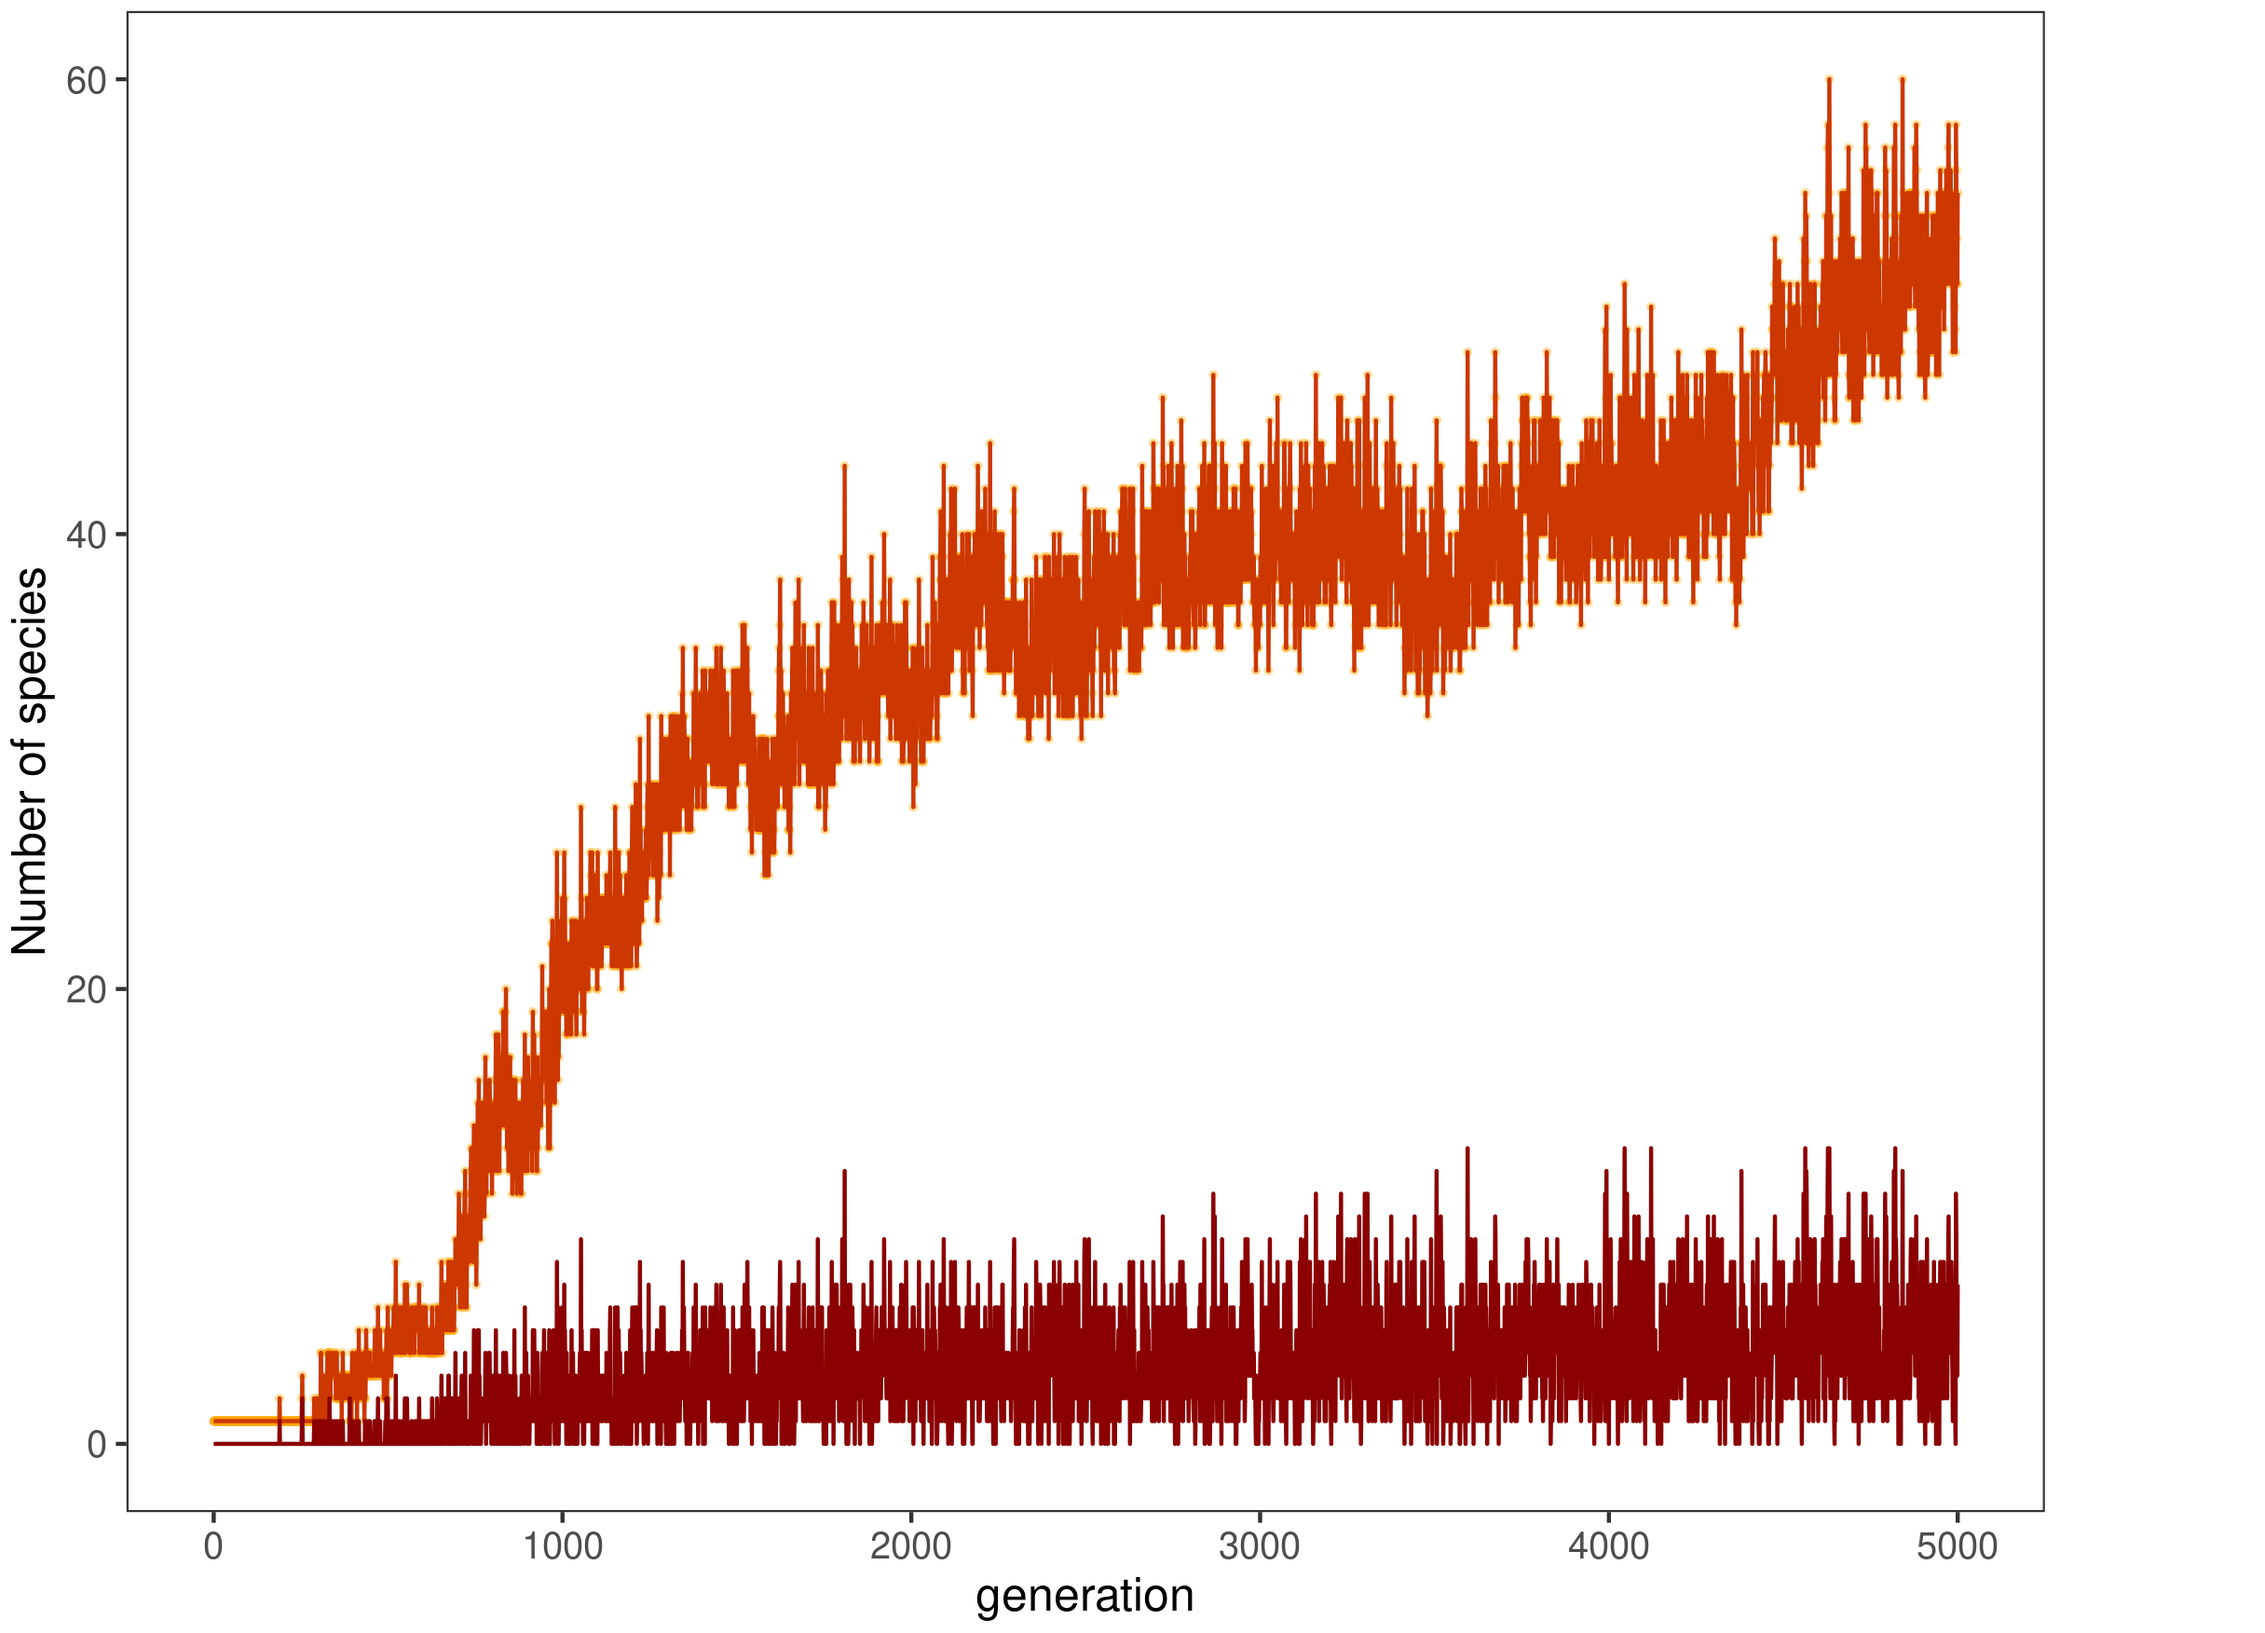
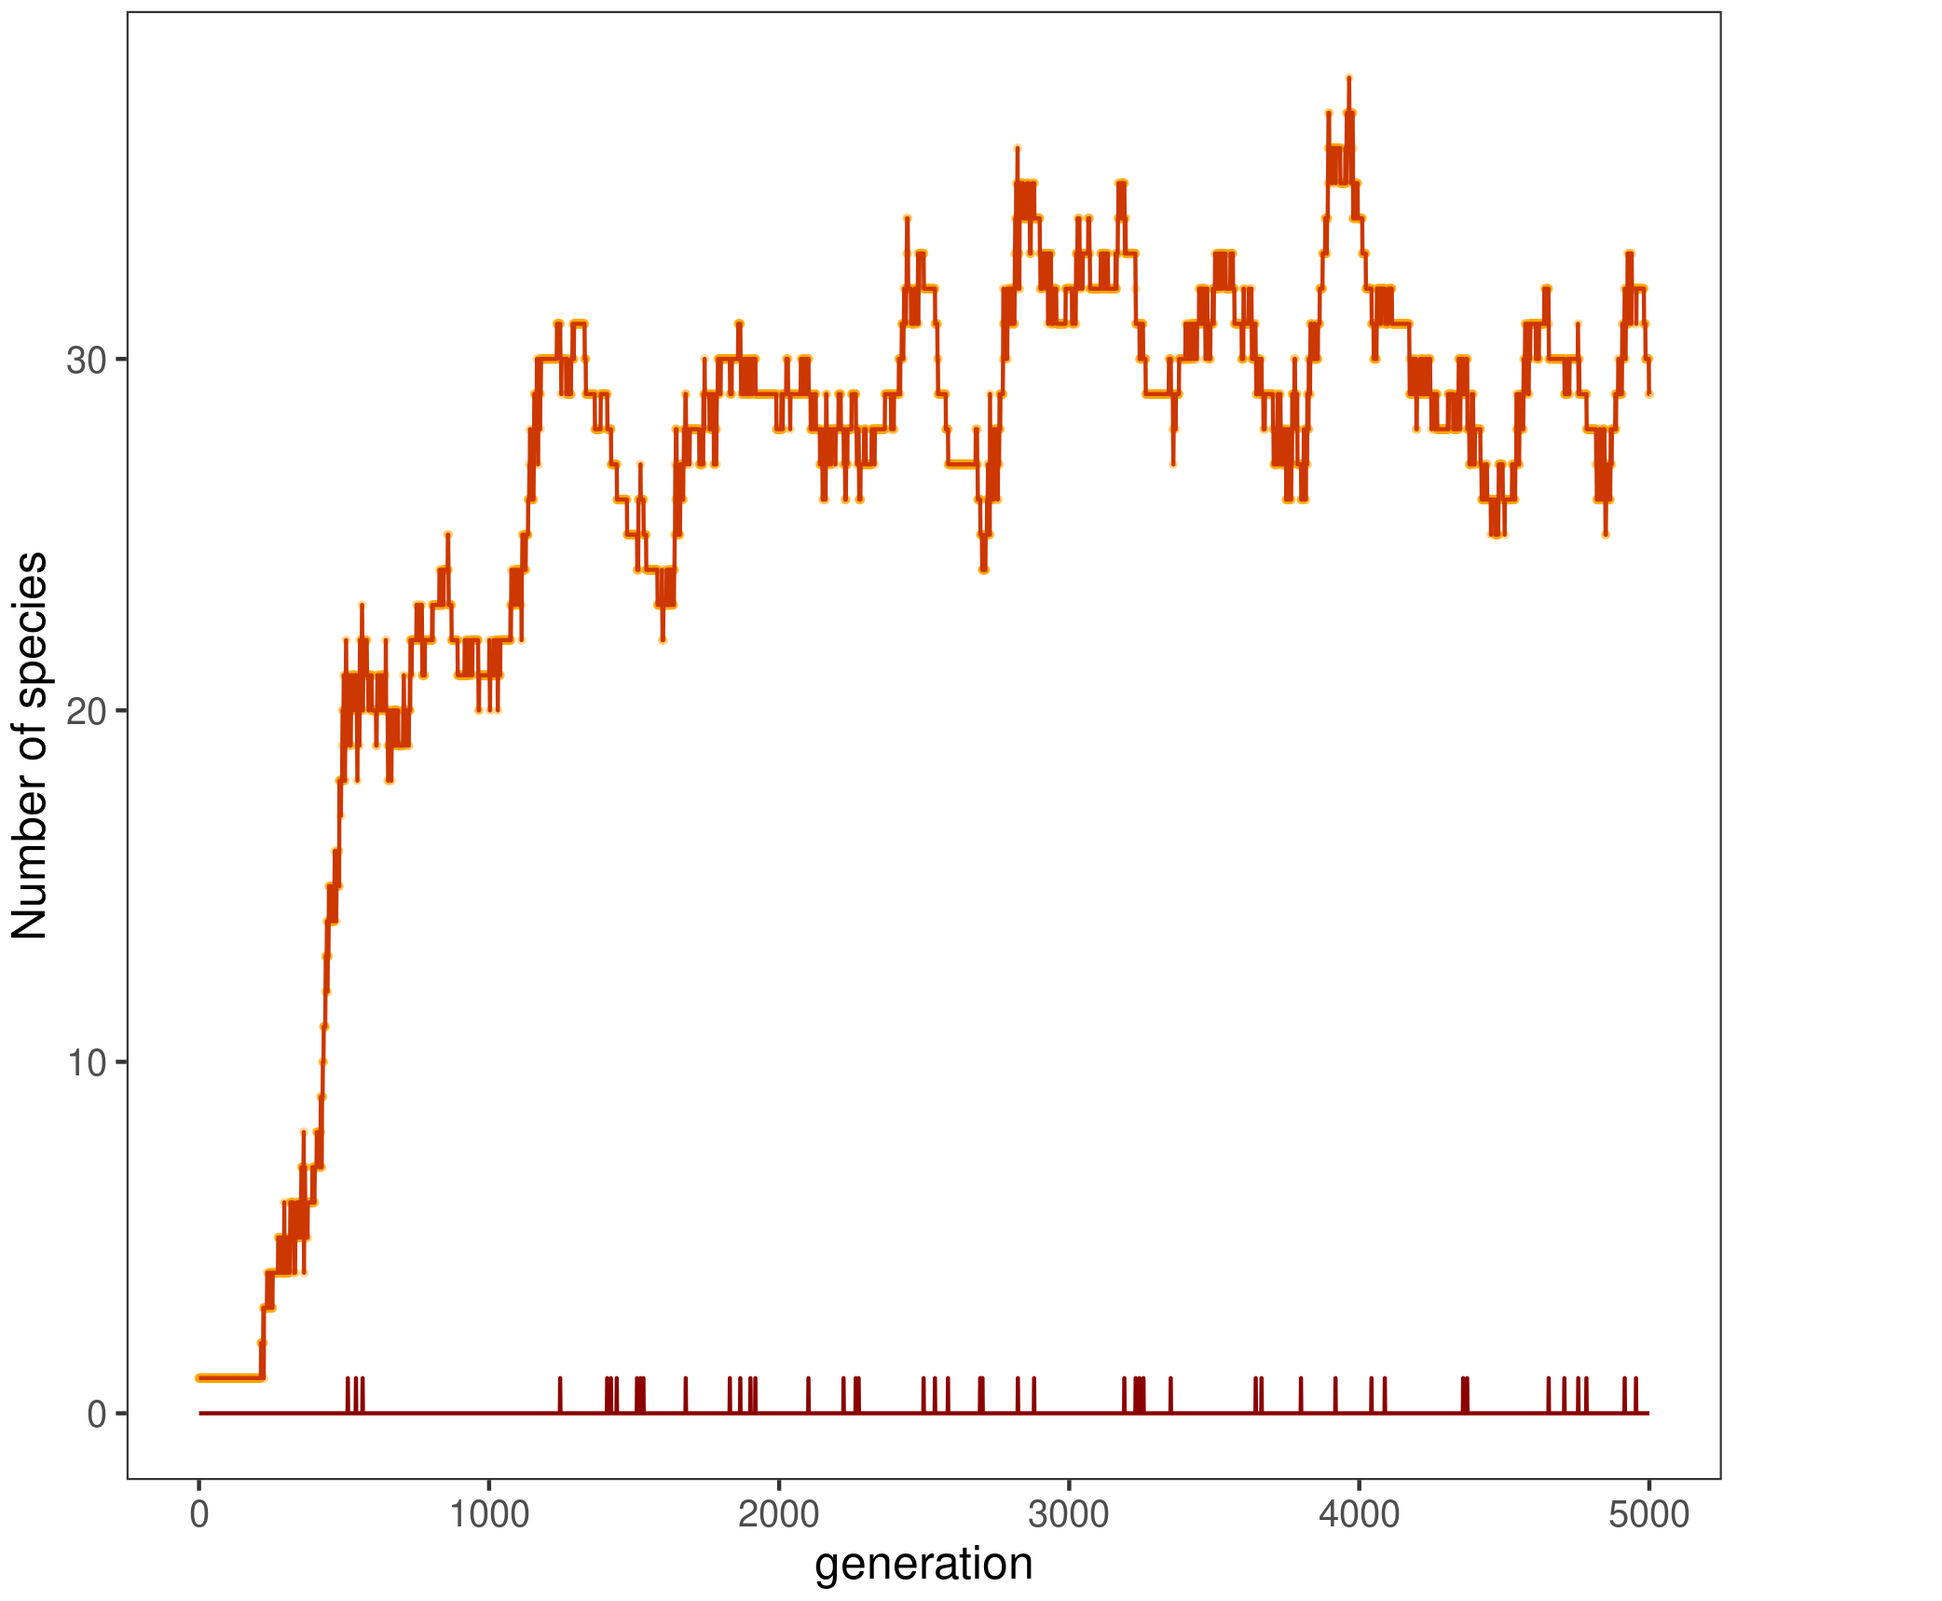
ESTABILIZE NUMBER OF SPECIES AROUND 30

diff --git a/functions.c b/functions.c
@@ -83,33 +83,24 @@
 		return (-(neighborhood->info + 1));
 	}
 
-
-	int Verify_All_Neighborhood (Population progenitors, int focal)
-	{
-		int neighbors;
-
-		neighbors = Verify_Neighborhood(progenitors[focal]->compatible_neighbors);
-		neighbors += Verify_Neighborhood(progenitors[focal]->spatial_neighbors);
-
-		return neighbors;
-	}
-
 	/* This function computes the neighbors an individual i can reproduce with and stores this info in a list */
-	void Neighborhood (Graph G, Population progenitors, int focal, Parameters info, int increase, int type)
+	void Neighborhood (Graph G, Population progenitors, int focal, Parameters info, int increase)
 	{
 		int i;
+		RestartList (&progenitors[focal]->compatible_neighbors);
+		RestartList (&progenitors[focal]->spatial_neighbors);
 
 		for (i = 0; i < (G->U); i++) {
-			if (type == 1) {
-				if (G->adj[focal][i] != 0 && Verify_Distance (progenitors, focal, i, info, increase)){
-					AddCellInOrder(&progenitors[focal]->compatible_neighbors, i);
+			if (focal != i) {
+				if (Verify_Distance (progenitors, focal, i, info, increase)) {
+					if (G->adj[focal][i] != 0) {
+						AddCellInOrder(&progenitors[focal]->compatible_neighbors, i);
+					}
+					else {
+						AddCellInOrder(&progenitors[focal]->spatial_neighbors, i);
+					}
 				}
-			}
-			else {
-				if (G->adj[focal][i] == 0 && Verify_Distance (progenitors, focal, i, info, increase)){
-					AddCellInOrder(&progenitors[focal]->spatial_neighbors, i);
-				}
-			}
+			}	
 		}
 	}
 
@@ -120,62 +111,29 @@
 		RestartList (&progenitors[focal]->compatible_neighbors);
 
 		for (i = 0; i < (G->U); i++) {
-			if (G->adj[focal][i] != 0 && Verify_Distance (progenitors, focal, i, info, increase)){
-				AddCellInOrder(&progenitors[focal]->compatible_neighbors, i);
-			}
-		}
-	}
-
-	void Spatial_Neighborhood (Graph G, Population progenitors, int focal, Parameters info, int increase)
-	{
-		int i;
-
-		RestartList (&progenitors[focal]->spatial_neighbors);
-
-		for (i = 0; i < (G->U); i++) {
-			if (G->adj[focal][i] == 0 && Verify_Distance (progenitors, focal, i, info, increase)){
-				AddCellInOrder(&progenitors[focal]->spatial_neighbors, i);
-			}
-		}
-	}
-
-	/*void Expand_Neighborhood (Graph G, List bigger_neighborhood, Population progenitors, int focal, Parameters info, int increase, int type)
-	{
-		int i;
-
-		for (i = 0; i < (G->U); i++) {
-			if (G->adj[focal][i] == type && Verify_Distance (progenitors, focal, i, info, increase)) {
-				if (!Verify_Distance (progenitors, focal, i, info, increase - 1)) {
-					AddCellInOrder(&bigger_neighborhood, i);
-				}
-			}
-		}
-	}*/
-
-
-	void Expand_Compatible_Neighborhood (Graph G, List bigger_neighborhood, Population progenitors, int focal, Parameters info, int increase)
-	{
-		int i;
-
-		for (i = 0; i < (G->U); i++) {
-			if (G->adj[focal][i] != 0 && Verify_Distance (progenitors, focal, i, info, increase)) {
-				if (!Verify_Distance (progenitors, focal, i, info, increase - 1)) {
-					AddCellInOrder(&bigger_neighborhood, i);
+			if (i != focal){
+				if (G->adj[focal][i] != 0 && Verify_Distance (progenitors, focal, i, info, increase)){
+					AddCellInOrder(&progenitors[focal]->compatible_neighbors, i);
 				}
 			}
 		}
 	}
 
-	void Expand_Spatial_Neighborhood (Graph G, List bigger_neighborhood, Population progenitors, int focal, Parameters info, int increase)
+	void Expand_Neighborhood (Graph G, Population progenitors, int focal, Parameters info, int increase)
 	{
 		int i;
 
 		for (i = 0; i < (G->U); i++) {
-			if (G->adj[focal][i] == 0 && Verify_Distance (progenitors, focal, i, info, increase)) {
-				if (!Verify_Distance (progenitors, focal, i, info, increase - 1)) {
-					AddCellInOrder(&bigger_neighborhood, i);
+			if (focal != i) {
+				if (Verify_Distance (progenitors, focal, i, info, increase) && !Verify_Distance (progenitors, focal, i, info, increase - 1)) {
+					if (G->adj[focal][i] != 0) {
+						AddCellInOrder(&progenitors[focal]->compatible_neighbors, i);
+					}
+					else {
+						AddCellInOrder(&progenitors[focal]->spatial_neighbors, i);
+					}
 				}
-			}
+			}	
 		}
 	}
 
@@ -210,7 +168,7 @@
 		info->individual_vector_size = (int)(info->number_individuals * 2);
 		info->reproductive_distance  = 7;
 		info->genome_size            = 150;
-		info->number_generations     = 5000;
+		info->number_generations     = 3000;
 		info->lattice_length         = 100;
 		info->lattice_width          = 100;
 		info->radius                 = 5;
@@ -296,9 +254,7 @@
 				}	
 			}
 
-			Compatible_Neighborhood (G, individuals, i, info, 0);
-			Spatial_Neighborhood (G, individuals, i, info, 0);
-
+			Neighborhood (G, individuals, i, info, 0);
 		}
 	} 
 
@@ -397,10 +353,9 @@
 		other = -1;
 		other_neighborhood = 0;
 
-		while (radius_increase < info->max_increase && other == -1) {
+		while (radius_increase <= info->max_increase && other == -1) {
 			if (radius_increase > increase) {
-				Compatible_Neighborhood (G, progenitors, focal, info, radius_increase);
-				Spatial_Neighborhood (G, progenitors, focal, info, radius_increase);
+				Expand_Neighborhood (G, progenitors, focal, info, radius_increase);
 			}
 
 			compatible_neighbors = Verify_Neighborhood (progenitors[focal]->compatible_neighbors);
@@ -419,9 +374,13 @@
 
 					if (j == i && p != NULL) {
 						other = p->info;
-						if (radius_increase > 0) Compatible_Neighborhood (G, progenitors, focal, info, radius_increase);
+						if (radius_increase > 0){
+							Compatible_Neighborhood (G, progenitors, other, info, radius_increase);
+						}
 						other_neighborhood = Verify_Neighborhood (progenitors[other]->compatible_neighbors);
-						Compatible_Neighborhood (G, progenitors, focal, info, 0);
+						if (other_neighborhood < 2) {
+							Compatible_Neighborhood (G, progenitors, other, info, 0);
+						}
 					} 
 					else other = -1;
 				}
@@ -430,10 +389,6 @@
 			if (other == -1) {
 				radius_increase += 1;
 			} 
-		}
-
-		if (radius_increase > 0) {
-			Compatible_Neighborhood (G, progenitors, focal, info, 0);
 		}
 		
 		return other;
@@ -467,7 +422,7 @@
 
 	void Reproduction (Graph G, Population progenitors, Population offspring, Parameters info)
 	{
-		int focal, mate, other, baby, all_neighborhood, compatible_neighborhood, increase, expand, n, occupation;
+		int focal, mate, other, baby, other_neighborhood, all_neighborhood, compatible_neighborhood, increase, expand, n, occupation;
 
 		baby = 0;
 
@@ -479,7 +434,6 @@
 				occupation = Site_Occupation (G, progenitors, focal, info);
 				if (compatible_neighborhood >= info->min_neighboors && occupation < info->max_spot_density/3) {
 					mate = Choose_Mate (G, focal, progenitors, info);
-					if (mate == -1) printf("erro na Choose_Mate\n");
 					for (n = 0; n < 2 && mate != -1; n++) {
 						Create_Offspring (progenitors, offspring, baby, focal, focal, mate, info);
 						baby ++;
@@ -488,33 +442,35 @@
 			}
 			else {
 				expand = 0;
-				for (increase = 1; all_neighborhood < 2 && increase < info->max_increase; increase++) {
-					Compatible_Neighborhood (G, progenitors, focal, info, increase);
-					Spatial_Neighborhood (G, progenitors, focal, info, increase);
+				for (increase = 1; all_neighborhood < 2 && increase <= info->max_increase; increase++) {
+					Expand_Neighborhood (G, progenitors, focal, info, increase);
 					compatible_neighborhood = Verify_Neighborhood (progenitors[focal]->compatible_neighbors);
 					all_neighborhood = compatible_neighborhood + Verify_Neighborhood (progenitors[focal]->spatial_neighbors);
 					expand = 1;
 				}
 				if (expand == 0) increase = 0;
-				if (increase < info->max_increase) {
+				if (increase <= info->max_increase) {
 					other = focal;
+					other_neighborhood = Verify_Neighborhood (progenitors[other]->compatible_neighbors);
 					if (random_number() < 0.37 || compatible_neighborhood < info->min_neighboors) {
 						other = Choose_Other (G, focal, progenitors, info, increase);
-						if (other == -1) printf("cant find other\n");
+						other_neighborhood = Verify_Neighborhood (progenitors[other]->compatible_neighbors);
 					}
 					mate = -1;
-					if (other != -1) {
-						mate = Choose_Mate (G, focal, progenitors, info);
+					if (other != -1 && other_neighborhood > 1) {
+						mate = Choose_Mate (G, other, progenitors, info);
+						Compatible_Neighborhood (G, progenitors, other, info, 0);
 					}
 					if (mate != -1 && other != -1) {
-						if (other > G->U) printf("focal: %d, other: %d, mate = %d\n", focal, other, mate);
 						Create_Offspring (progenitors, offspring, baby, focal, other, mate, info);
 						baby ++;
 					}
 				}
+				if (increase > 0) {
+					Neighborhood (G, progenitors, focal, info, 0);
+				}
 			}
 		}
-
 		info->population_size = baby;
 	}
 

diff --git a/main.c b/main.c
@@ -20,19 +20,19 @@ int main()
   /* This loop is used when more simulations are needed */
   for (l = 0; l < 1; l++) {
     /* Using a fixed seed gives same results at every simulation. */
-    //srand (time(NULL));
-    srand(1);
+    srand (time(NULL));
+    //srand(1);
     GLOBAL_RNG = gsl_rng_alloc(gsl_rng_taus);
 
     time(&t);
     printf("********************\n%s\n*********************\n", ctime(&t));
 
-    sprintf (nome_arq_s, "./data/species/v1/numsp_vf_7_%02d.csv", l);
+    sprintf (nome_arq_s, "./data/species/v1/numsp_vf_%02d.csv", l);
     nspecies = fopen (nome_arq_s, "w");
     fprintf (nspecies, "gen;sp;singles;sim\n");
 
     if (l == 0) {
-      sprintf (nome_arq_p, "./data/position/indloc_vf_7.csv");
+      sprintf (nome_arq_p, "./data/position/indloc_vf.csv");
       position = fopen (nome_arq_p, "w");
       fprintf (position, "id;x;y;sp;gen\n");
     }
@@ -45,8 +45,6 @@ int main()
     Set_Initial_Values (progenitors, info);
 
     G = CreateGraph (info->individual_vector_size, info->number_individuals);
-
-    printf("idensity = %d\n", info->density);
 
     printf("SIMULATION %d\n", l);
     for (i = 0; i <= info->number_generations; i++) {
@@ -63,7 +61,7 @@ int main()
           }
         }
       }
-      if (i%5 == 0) {
+      if (i%1 == 0) {
         printf("GENERATION: %d\n", i);
         printf("pop size: %d\n", G->U);
         printf("NUMBER OF SPECIES = %d\n", number_species);
